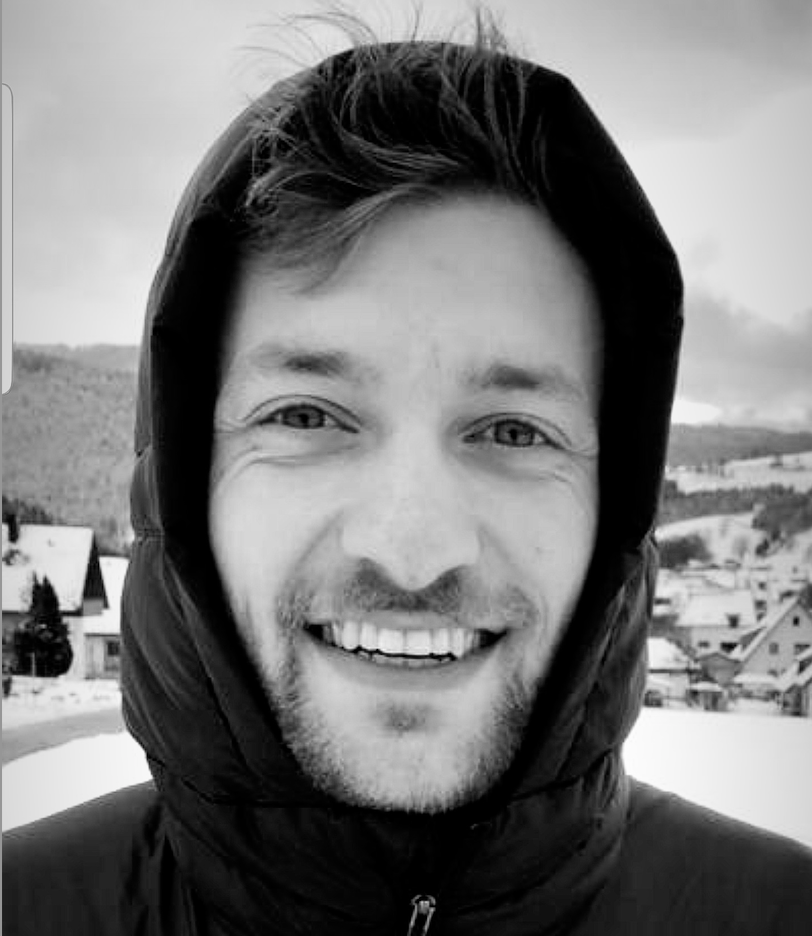
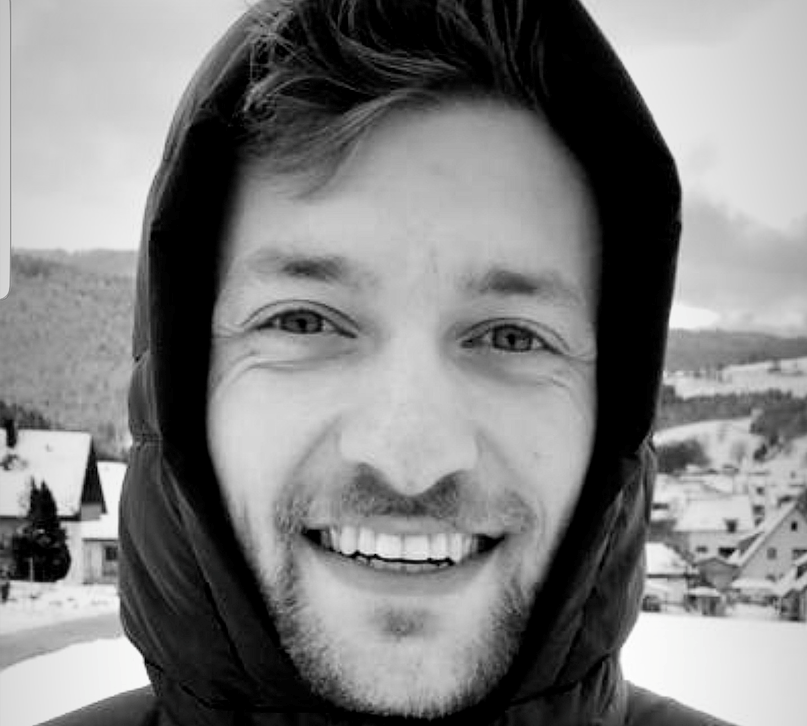
rewriting about

diff --git a/_sass/_masthead.scss b/_sass/_masthead.scss
@@ -2,52 +2,57 @@
    MASTHEAD
    ========================================================================== */
 
-.masthead {
-  position: relative;
-  border-bottom: 1px solid $border-color;
-  -webkit-animation: intro 0.3s both;
-          animation: intro 0.3s both;
-  -webkit-animation-delay: 0.15s;
-          animation-delay: 0.15s;
-  z-index: 20;
-
-  &__inner-wrap {
-    @include container;
-    @include clearfix;
-    padding: 1em 1em 1em;
-    font-family: $sans-serif-narrow;
-
-    @include breakpoint($x-large) {
-      max-width: $x-large;
-    }
-
-    nav {
-      z-index: 10;
-    }
-
-    a {
-      text-decoration: none;
+   .masthead {
+    position: fixed;
+    top: 0; 
+    border-bottom: 1px solid $border-color;
+    -webkit-animation: intro 0.3s both;
+            animation: intro 0.3s both;
+    -webkit-animation-delay: 0.15s;
+            animation-delay: 0.15s;
+    width: 100%;                    //<-- set header's width
+    background: $background-color;  //<-- set header's background color
+                                  //this variable will be set per layout
+  height: 75px;                   //<-- set header's height
+    z-index: 20;
+  
+    &__inner-wrap {
+      @include container;
+      @include clearfix;
+      padding: 1em 1em 1em;
+      font-family: $sans-serif-narrow;
+  
+      @include breakpoint($x-large) {
+        max-width: $x-large;
+      }
+  
+      nav {
+        z-index: 10;
+      }
+  
+      a {
+        text-decoration: none;
+      }
     }
   }
-}
-
-.masthead__menu {
-
-  ul {
-    margin: 0;
-    padding: 0;
-    clear: both;
+  
+  .masthead__menu {
+  
+    ul {
+      margin: 0;
+      padding: 0;
+      clear: both;
+      list-style-type: none;
+    }
+  }
+  
+  .masthead__menu-item {
+    display: block;
     list-style-type: none;
+    white-space: nowrap;
+  
+    &--lg {
+      padding-right: 2em;
+      font-weight: 700;
+    }
   }
-}
-
-.masthead__menu-item {
-  display: block;
-  list-style-type: none;
-  white-space: nowrap;
-
-  &--lg {
-    padding-right: 2em;
-    font-weight: 700;
-  }
-}

diff --git a/_sass/_sidebar.scss b/_sass/_sidebar.scss
@@ -69,29 +69,30 @@
    Author profile and links
    ========================================================================== */
 
-.author__avatar {
-  display: table-cell;
-  vertical-align: top;
-  width: 36px;
-  // set width only, for non-square avatars
-  // height: 36px;
-
-  @include breakpoint($large) {
-    display: block;
-    width: 300px;
-    height: 200px;
-  }
-
-  img {
-    max-width: 175px;
-    border-radius: 50%;
-
+   .author__avatar {
+    display: table-cell;
+    vertical-align: top;
+    width: 36px;
+    // set width only, for non-square avatars
+    // height: 36px;
+  
     @include breakpoint($large) {
-      padding: 5px;
-      border: 1px solid $border-color;
+      display: block;
+      width: auto;
+      height: auto;
+    }
+  
+    img {
+      max-width: 175px;
+      border-radius: 50%;
+  
+      @include breakpoint($large) {
+        padding: 5px;
+        border: 1px solid $border-color;
+      }
     }
   }
-}
+  
 
 .author__content {
   display: table-cell;

diff --git a/_layouts/default.html b/_layouts/default.html
@@ -9,6 +9,9 @@ layout: compress
   <head>
     {% include head.html %}
     {% include head/custom.html %}
+    <link rel="icon" href="/favicon.png" type="image/x-icon">
+    <link rel="shortcut icon" href="/favicon.png" type="image/x-icon">
+
   </head>
 
   <body>

diff --git a/_sass/_base.scss b/_sass/_base.scss
@@ -9,7 +9,7 @@ html {
 
 body {
   margin: 0;
-  padding: 0;
+  padding: 55px 0 0;
   padding-bottom: 9em;
   color: $text-color;
   font-family: $global-font-family;

diff --git a/_pages/about.md b/_pages/about.md
@@ -1,6 +1,6 @@
 ---
 permalink: /
-title: "Welcome!"
+title: "Political Data Scientist &#124; Data Quality"
 excerpt: "About me"
 author_profile: true
 redirect_from: 
@@ -8,27 +8,29 @@ redirect_from:
   - /about.html
 ---
 
-I’m a political data scientist, currently based in Mannheim (Germany). Currently, I am working at the [GESIS- Leibniz Institute for the Social Sciences](https://www.gesis.org/home), where I am also pursuing my PhD in the field of data quality and computational text analysis.
+## Welcome!
 
-I have a strong academic background, holding an MSc in <i>Big Data and Digital Futures</i> from the University of Warwick and a MA in <i>Politics and Public Administration</i> from the University of Konstanz. Previously, I have also worked at the Ministry of Economy, Labor, and Housing Baden-Württemberg, PricewaterhouseCoopers (PwC), the University of Duisburg-Essen, and the University of Konstanz, which have provided me with a diverse set of skills and perspectives.
+I’m Lukas, a doctoral researcher at the [GESIS- Leibniz Institute for the Social Sciences](https://www.gesis.org/home) in Germany. Please feel free to explore my website, and don't hesitate to reach out to me if you have any questions or would like to get in touch!
 
-# My Research
+## <i class="fas fa-graduation-cap"></i> Education 
+- Ph.D. Candidate in Computational Social Science (current), 2023, 
+- M. Sc. in Big Data and Digital Futures, 2021 (University of Warwick)
+- M.A. Politics and Public Administration, 2021 (University of Konstanz)
+- B.A. Politics and Public Administration, 2019 (University of Konstanz)
 
-## NLP 
 
-My research is grounded in the social sciences, with a particular focus on empirical quantitative methods and innovative methodological approaches, such as natural language processing and deep learning. I am particularly interested in exploring a broad range of topics, including the quality of digital behavior data, data literacy, empirical-based decision-making, and the impact of digital technologies on society, politics, and public administration. I am excited to contribute to the field by providing valuable insights and perspectives through my research.
 
-## Others
+##  <i class="fas fa-user"></i> Interests
 
-I have a passion for sharing my knowledge and skills with others, and one of the ways I do this is through teaching R. R is a powerful programming language and software environment for statistical computing and graphics. 
-I offer a variety of R training options, including workshops, seminars, and one-on-one consulting. In my workshops, I cover the basics of R and provide hands-on exercises to help students gain a solid understanding of the language. In my seminars, I delve into more advanced topics, such as machine learning and data visualization, and provide students with the opportunity to work on a project of their choice. Finally, in one-on-one consulting, I work with students to tailor the training to their specific needs and goals.
+- **NLP (Natural Language Processing):**
+  My research is rooted in the social sciences, with a focus on quantitative methods and innovative approaches like natural language processing and deep learning. In particular, I am interested in how to ensure the validity of text-based measures of social science constructs. 
 
-I am committed to helping others learn and grow, and I believe that teaching R is one of the best ways to do that. Whether you are a beginner looking to get started with R or an experienced user looking to take your skills to the next level, I am here to help.
+- **Election Studies**
+I have a background in political science, and my recent research centers around political elections. Specifically, I've been studying **postal voting** ("Briefwahl") and **voter turnout** (Wahlbeteiligung) within the German electoral system.
 
-Interests
-Data Science
-Text-as-data
-Machine Learning
-Social Media Communication
-Political Communication
-Intra-Party Heterogeneity
+
+- **Sharing Knowledge and Skills:**
+  I'm passionate about teaching **R**, a powerful programming language for statistical computing and graphics. Furthermore, I also teach courses on NLP and "Business Research Methods"
+
+- **Personal Interests**
+Beyond my academic pursuits, you'll often find me exploring the great outdoors, whether hiking or cycling in the Odenwald, Schwarzwald, or the Alps. Alternatively, you might spot me engrossed in a game of chess or enjoying a cup of coffee in a vibrant café setting.

diff --git a/_pages/software.md b/_pages/software.md
@@ -22,7 +22,7 @@ redirect_from:
   - /resume
 ---
 
-As a computational social scientist, I develope tools and software. Below, you will find some of my most recent project. 
+As a computational social scientist, developing tools and software is part of my daily work. Below, you will find some of my most recent project. 
 # ValiTex
 
 [![Project Status: Active -- The project has reached a stable, usable
@@ -33,7 +33,6 @@ developed.](http://www.repostatus.org/badges/latest/active.svg)](http://www.repo
 [![R-CMD-check](https://github.com/lukasbirki/ValiTex/actions/workflows/R-CMD-check.yaml/badge.svg)](https://github.com/lukasbirki/ValiTex/actions/workflows/R-CMD-check.yaml)
 
 One of my recent projects is the development of the [ValiTex](https://lukasbirki.shinyapps.io/ValiTex/) framework for validating text-based measures of social science constructs (for the working paper, see [Birkenmaier et al. (2023)](https://arxiv.org/abs/2307.02863)). The frameworks comes with a shiny app, which is also implemented in an R-Package.
-
 
 {% include gallery %}
 
@@ -48,3 +47,17 @@ devtools::install_github("lukasbirki/ValiTex")
 
 You can then run the app locally by running `ValiTex::run_app()`
 
+# CitiesRopen
+
+[![Project Status: Active – The project has reached a stable, usable
+state and is being actively
+developed.](http://www.repostatus.org/badges/latest/active.svg)](http://www.repostatus.org/#active)
+[![Lifecycle:
+experimental](https://img.shields.io/badge/lifecycle-experimental-orange.svg)](https://www.tidyverse.org/lifecycle/#experimental)
+
+This Rpackages allows you to directly inspect and download data from the Open Data Portal of Constance. It can be easily used by practioniers, members of the civil society and academics and expects users to have only a basic understanding of R. Technically, the package relies on the DKAN API.
+
+``` r
+install.packages("devtools")
+devtools::install_github("CorrelAid/CitiesRopen")
+```

diff --git a/_pages/contact.md b/_pages/contact.md
@@ -1,0 +1,20 @@
+---
+layout: archive
+title: "Contact Information"
+permalink: /contact/
+author_profile: true
+redirect_from:
+  - /resume
+---
+
+You can reach out to me through the following contact methods:
+
+### Email
+
+- **Email Address:** [lukas.birkenmaier@outlook.de](mailto:lukas.birkenmaier@outlook.de)
+
+### Social Media
+
+- **BlueSky:** [@Lukasbirkenmai1](https://bsky.app/profile/lukasbirkenmai1.bsky.social)
+- **LinkedIn:** [Lukas Birkenmaier](https://www.linkedin.com/in/lukas-birkenmaier-359b07166/)
+- **ResearchGate:** [Lukas Birkenmaier](https://www.researchgate.net/profile/Lukas-Birkenmaier-4)
